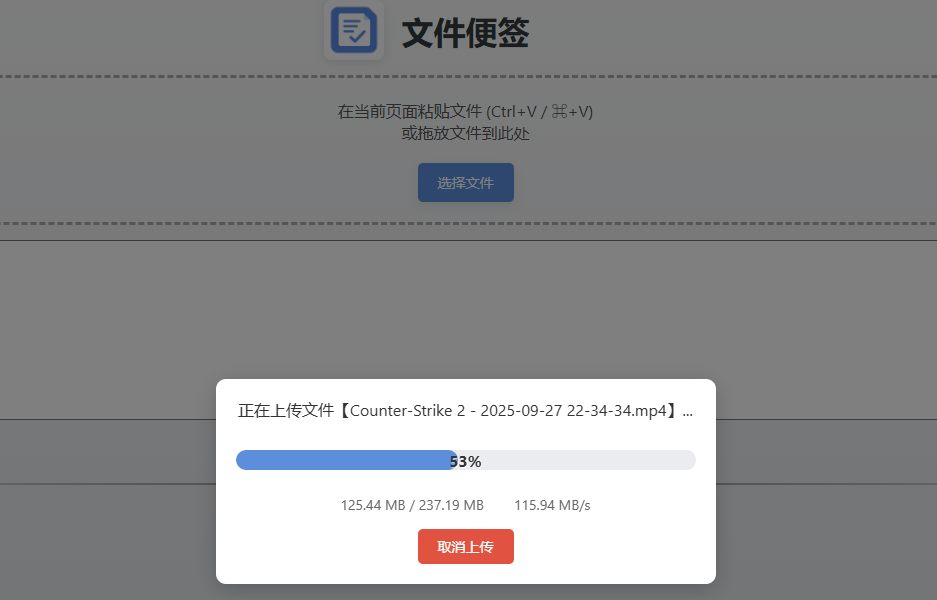
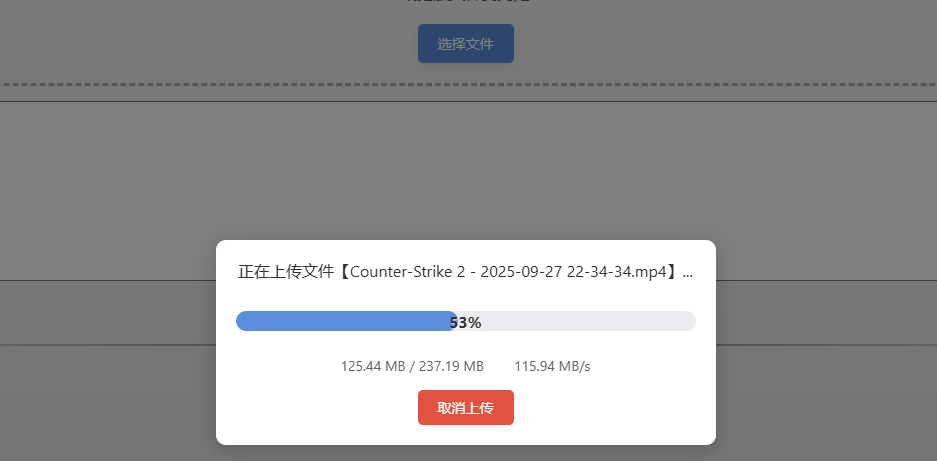
改成文件盒子 File Box

diff --git a/src/main/resources/static/login.html b/src/main/resources/static/login.html
@@ -5,7 +5,7 @@
     <meta charset="UTF-8">
     <meta name="viewport" content="width=device-width, initial-scale=1.0">
     <link rel="icon" href="images/favicon.png" type="image/png">
-    <title>登录 - 文件便签</title>
+    <title>登录 - 文件盒子</title>
     <style>
         * {
             margin: 0;
@@ -16,12 +16,14 @@
 
         .logo-container {
             position: absolute;
-            top: -20px;
-            left: 20px;
+            /*top: -20px;*/
+            /*left: 20px;*/
+            top: 16px;
+            left: 24px;
             background: white;
             padding: 5px;
             border-radius: 10px;
-            box-shadow: 0 2px 10px rgba(0, 0, 0, 0.1);
+            /*box-shadow: 0 2px 10px rgba(0, 0, 0, 0.1);*/
         }
 
         .logo {
@@ -171,9 +173,9 @@
 <body>
     <div class="login-container">
         <div class="logo-container">
-            <img src="images/logo.png" alt="文件便签Logo" class="logo">
+            <img src="images/logo.png" alt="文件盒子Logo" class="logo">
         </div>
-        <h1>文件便签</h1>
+        <h1>文件盒子</h1>
         <div class="error-message-container">
             <span id="errorMessage" class="error-message" style="display: none;"></span>
         </div>
@@ -192,7 +194,7 @@
             <button id="anonymousAccessBtn" class="anonymous-access-btn" type="button">匿名访问</button>
         </div>
 
-        <div class="login-footer-text">请输入密码以访问文件便签服务</div>
+        <div class="login-footer-text">请输入密码以访问文件盒子服务</div>
     </div>
     <div class="footer-credit">Core: XD | Implementation: WWH</div>
     <script>
@@ -258,7 +260,7 @@
                     if (config.enabled) {
                         // 启用匿名访问，显示按钮和相关文本
                         anonymousAccessDiv.style.display = 'block';
-                        loginFooterText.textContent = '请输入密码以访问文件便签服务，或选择匿名访问';
+                        loginFooterText.textContent = '请输入密码以访问文件盒子服务，或选择匿名访问';
                     }
                 }
             } catch (error) {

diff --git a/src/main/resources/static/index.html b/src/main/resources/static/index.html
@@ -5,7 +5,7 @@
     <meta charset="UTF-8"/>
     <meta name="viewport" content="width=device-width, initial-scale=1.0"/>
     <link rel="icon" href="images/favicon.png" type="image/png">
-    <title>文件便签</title>
+    <title>文件盒子</title>
     <style>
         :root {
             --primary-color: #4a90e2;
@@ -99,7 +99,7 @@
             height: 60px;
             object-fit: contain;
             border-radius: 8px;
-            box-shadow: 0 2px 10px rgba(0, 0, 0, 0.1);
+            /*box-shadow: 0 2px 10px rgba(0, 0, 0, 0.1);*/
         }
 
         #dropzone {
@@ -507,9 +507,9 @@
 <div class="container">
     <div class="header-title">
         <div class="logo-wrapper">
-            <img src="images/logo.png" alt="文件便签Logo" class="header-logo">
+            <img src="images/logo.png" alt="文件盒子Logo" class="header-logo">
         </div>
-        <h1>文件便签</h1>
+        <h1>文件盒子</h1>
         <div class="logo-wrapper"></div>
     </div>
 

diff --git a/src/main/java/com/wwh/filebox/controller/FileBoxController.java b/src/main/java/com/wwh/filebox/controller/FileBoxController.java
@@ -1,6 +1,6 @@
-package com.wwh.filenote.controller;
+package com.wwh.filebox.controller;
 
-import com.wwh.filenote.util.FileUtils;
+import com.wwh.filebox.util.FileUtils;
 import org.slf4j.Logger;
 import org.slf4j.LoggerFactory;
 import org.springframework.core.io.PathResource;
@@ -20,13 +20,13 @@ import java.text.SimpleDateFormat;
 import java.util.*;
 
 /**
- * 文件笔记控制器
+ * 文件盒子控制器
  * 提供文件上传、下载、删除和查询等功能的API接口
  */
 @Controller
-public class FileNoteController {
+public class FileBoxController {
 
-    private static final Logger logger = LoggerFactory.getLogger(FileNoteController.class);
+    private static final Logger logger = LoggerFactory.getLogger(FileBoxController.class);
 
 
     @PostMapping("/upload_file")

diff --git a/src/main/java/com/wwh/filebox/FileBoxApplication.java b/src/main/java/com/wwh/filebox/FileBoxApplication.java
@@ -1,13 +1,13 @@
-package com.wwh.filenote;
+package com.wwh.filebox;
 
 import org.springframework.boot.SpringApplication;
 import org.springframework.boot.autoconfigure.SpringBootApplication;
 import org.springframework.boot.context.properties.ConfigurationPropertiesScan;
 
 @SpringBootApplication
-@ConfigurationPropertiesScan("com.wwh.filenote.config")
-public class FileNoteApplication {
+@ConfigurationPropertiesScan("com.wwh.filebox.config")
+public class FileBoxApplication {
     public static void main(String[] args) {
-        SpringApplication.run(FileNoteApplication.class, args);
+        SpringApplication.run(FileBoxApplication.class, args);
     }
 }

diff --git a/src/main/java/com/wwh/filebox/config/GroupConfig.java b/src/main/java/com/wwh/filebox/config/GroupConfig.java
@@ -1,11 +1,11 @@
-package com.wwh.filenote.config;
+package com.wwh.filebox.config;
 
 import org.springframework.boot.context.properties.ConfigurationProperties;
 import org.springframework.context.annotation.Configuration;
 import java.util.List;
 
 @Configuration
-@ConfigurationProperties(prefix = "file-note")
+@ConfigurationProperties(prefix = "file-box")
 public class GroupConfig {
     private Anonymous anonymous;
     private List<Group> groups;

diff --git a/src/main/java/com/wwh/filebox/controller/AuthController.java b/src/main/java/com/wwh/filebox/controller/AuthController.java
@@ -1,7 +1,7 @@
-package com.wwh.filenote.controller;
+package com.wwh.filebox.controller;
 
-import com.wwh.filenote.config.GroupConfig;
-import com.wwh.filenote.security.LoginAttemptManager;
+import com.wwh.filebox.config.GroupConfig;
+import com.wwh.filebox.security.LoginAttemptManager;
 import org.slf4j.Logger;
 import org.slf4j.LoggerFactory;
 import org.springframework.beans.factory.annotation.Autowired;

diff --git a/src/main/java/com/wwh/filebox/config/WebConfig.java b/src/main/java/com/wwh/filebox/config/WebConfig.java
@@ -1,6 +1,6 @@
-package com.wwh.filenote.config;
+package com.wwh.filebox.config;
 
-import com.wwh.filenote.security.LoginInterceptor;
+import com.wwh.filebox.security.LoginInterceptor;
 import org.springframework.context.annotation.Bean;
 import org.springframework.context.annotation.Configuration;
 import org.springframework.web.servlet.config.annotation.InterceptorRegistry;

diff --git a/src/main/java/com/wwh/filebox/security/LoginInterceptor.java b/src/main/java/com/wwh/filebox/security/LoginInterceptor.java
@@ -1,6 +1,6 @@
-package com.wwh.filenote.security;
+package com.wwh.filebox.security;
 
-import com.wwh.filenote.config.GroupConfig;
+import com.wwh.filebox.config.GroupConfig;
 import org.springframework.beans.factory.annotation.Autowired;
 import org.springframework.web.servlet.HandlerInterceptor;
 import javax.servlet.http.HttpServletRequest;

diff --git a/src/main/java/com/wwh/filebox/controller/CustomErrorController.java b/src/main/java/com/wwh/filebox/controller/CustomErrorController.java
@@ -1,4 +1,4 @@
-package com.wwh.filenote.controller;
+package com.wwh.filebox.controller;
 
 import org.springframework.boot.web.servlet.error.ErrorController;
 import org.springframework.stereotype.Controller;

diff --git a/src/main/java/com/wwh/filebox/util/FileUtils.java b/src/main/java/com/wwh/filebox/util/FileUtils.java
@@ -1,4 +1,4 @@
-package com.wwh.filenote.util;
+package com.wwh.filebox.util;
 
 import java.io.IOException;
 import java.nio.charset.StandardCharsets;

diff --git a/src/main/java/com/wwh/filebox/config/ConfigValidationRunner.java b/src/main/java/com/wwh/filebox/config/ConfigValidationRunner.java
@@ -1,4 +1,4 @@
-package com.wwh.filenote.config;
+package com.wwh.filebox.config;
 
 import org.slf4j.Logger;
 import org.slf4j.LoggerFactory;

diff --git a/src/main/java/com/wwh/filebox/security/LoginAttemptManager.java b/src/main/java/com/wwh/filebox/security/LoginAttemptManager.java
@@ -1,4 +1,4 @@
-package com.wwh.filenote.security;
+package com.wwh.filebox.security;
 
 import org.springframework.stereotype.Service;
 
